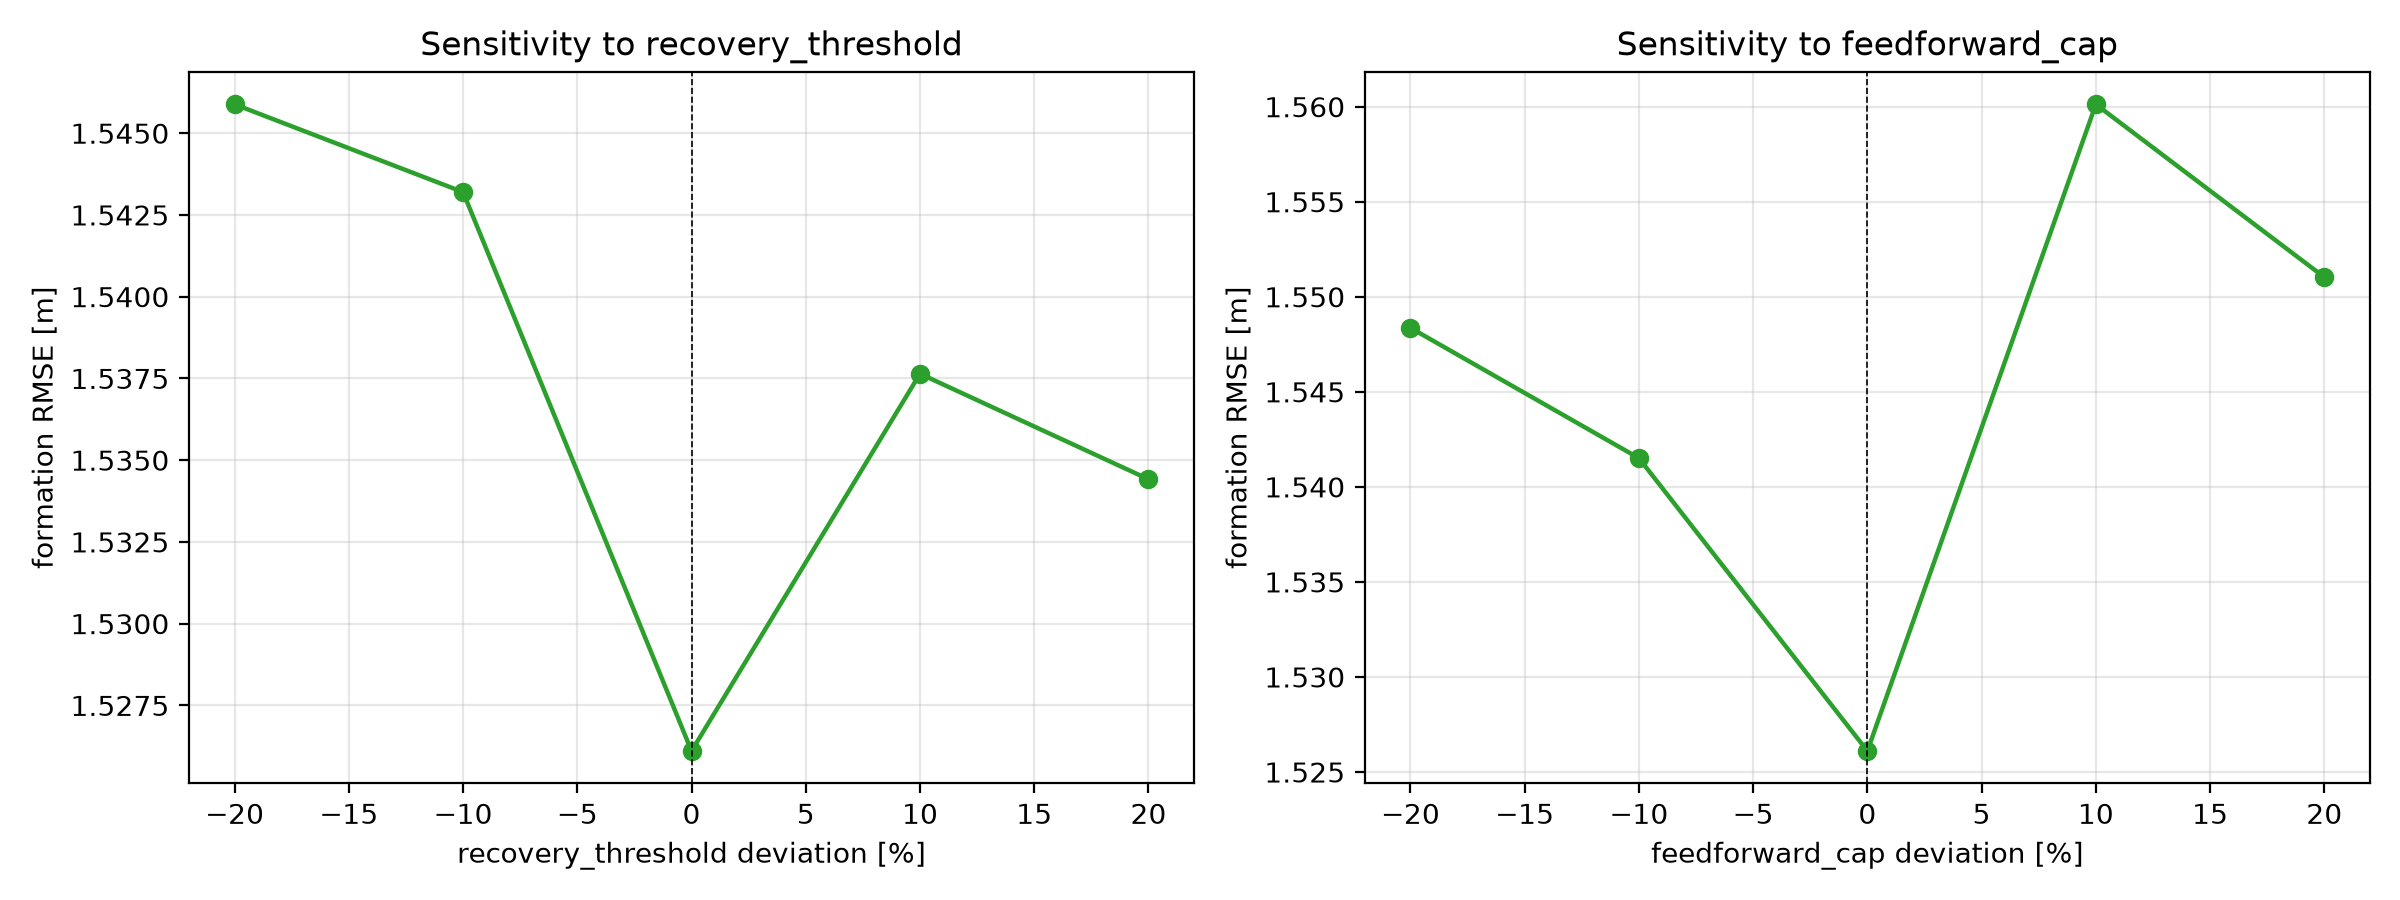
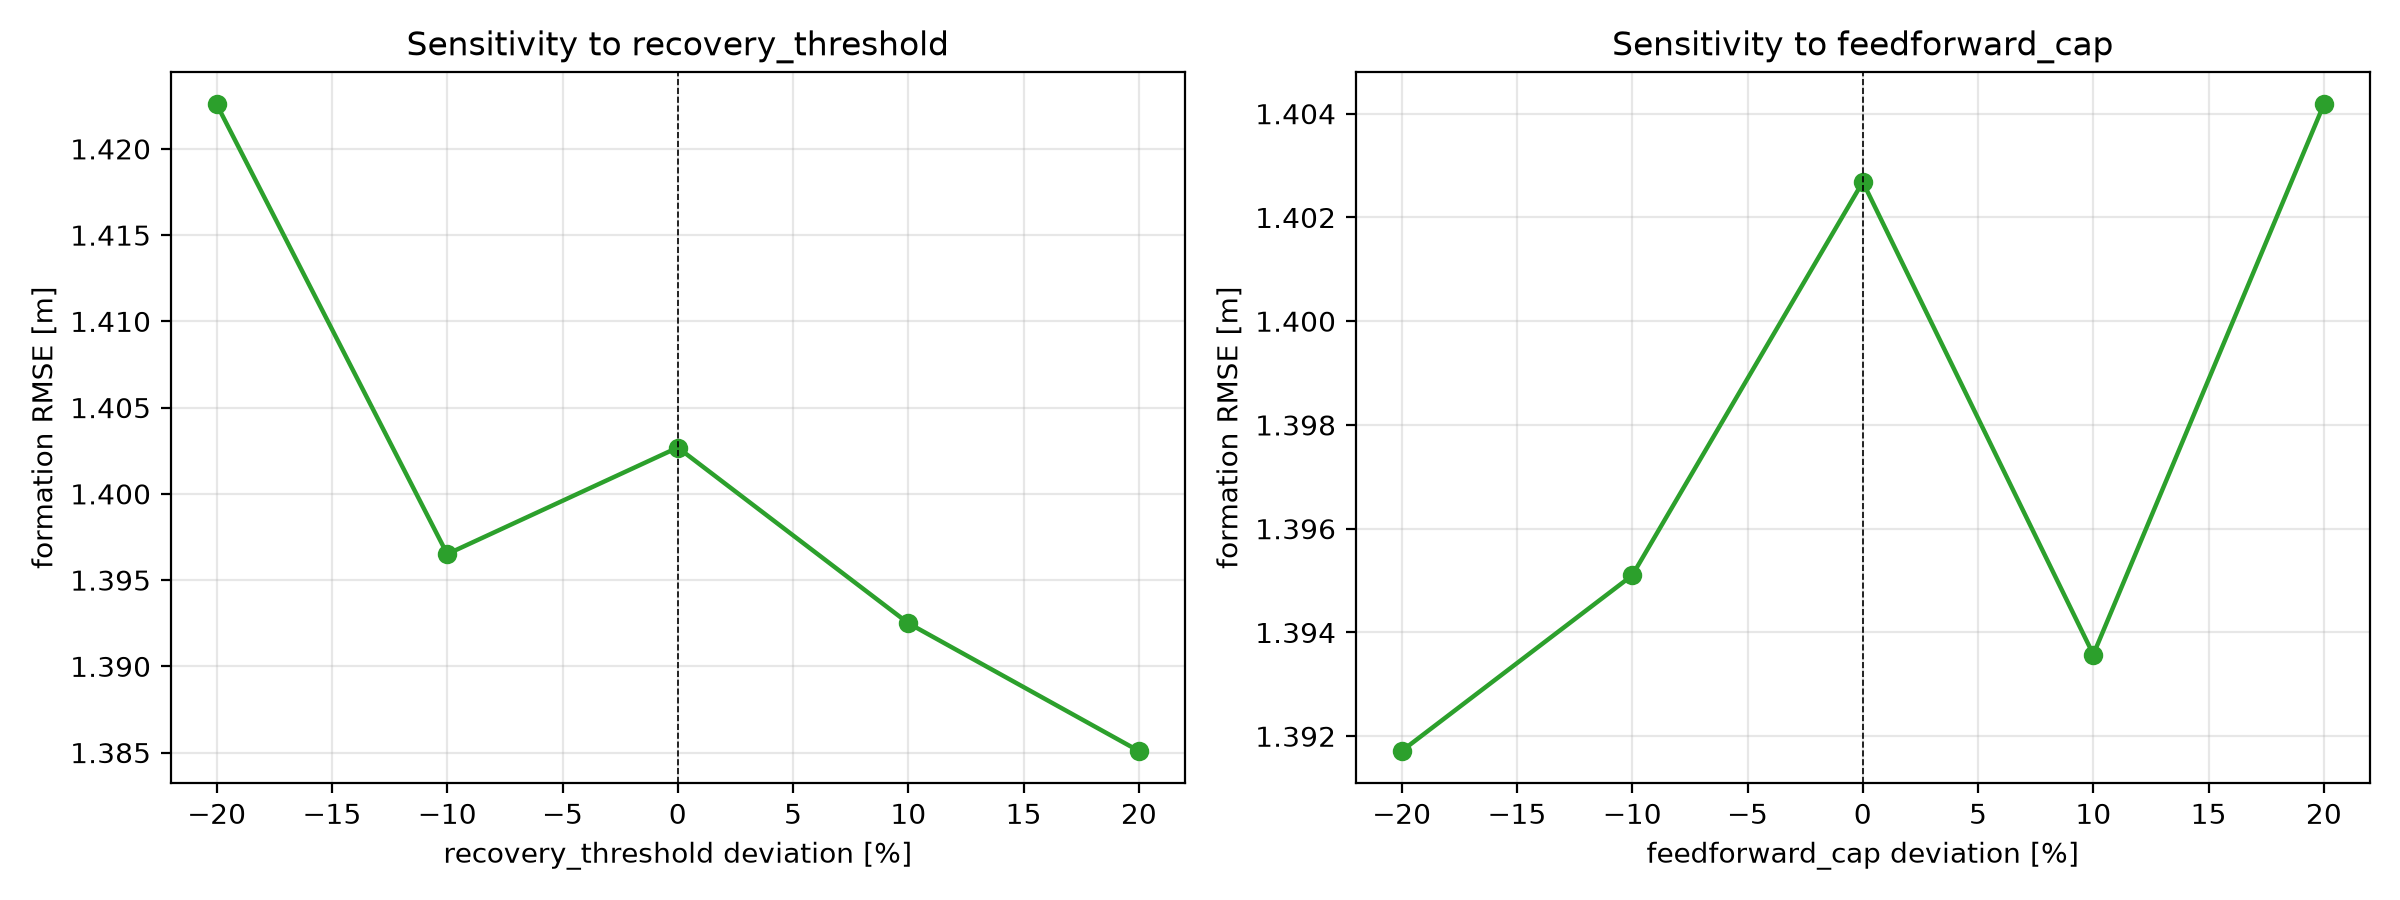
Update formation results after CFDL-MFAC+SMC architecture (v3 rerun)
500-trial rerun with the CFDL-MFAC(translational)+SMC(attitude) architecture.
Formation RMSE: SMC 1.306 < Hybrid 1.411 < MPC 1.435 < Backstepping 1.923 <
PID 13.9 < Fuzzy 14.9.

Honest, reported as-is (consistent with single-vehicle):
- hybrid now ranks 2ND OF 6, beating MPC on formation RMSE (d=-0.03,
  p=3.3e-10), recovery time (d=-0.06) and max deviation (d=-0.04) -- the
  strongest formation result across all 3 architecture versions (v1: 1.906,
  v2: 1.519, v3: 1.411)
- beats Backstepping on 4/5 indicators (all but energy), including a large
  attitude margin (0.085 vs 0.654)
- SWEEPS PID and Fuzzy on all 5 indicators, including energy -- the only
  baselines the hybrid beats on energy
- attitude RMSE improved >2x (0.203 -> 0.085), still behind MPC/SMC (0.047)
- control energy improved modestly (317.9k -> 287.1k) but remains the clear
  weak point, worse than every baseline except PID/Fuzzy
- still loses to SMC on all 5 indicators, though closely on 3 of them

Verdict: substantial progress -- beats MPC 3/5, Backstepping 4/5, sweeps
PID/Fuzzy 5/5 -- but does not beat SMC outright; energy remains open.
Combined standing: 2nd-of-6 (formation) / 3rd-of-6 (single-vehicle).

Claude-Session: https://claude.ai/code/session_01EqTA97WWzLYUmNUAg6Z7rU

diff --git a/cfdl_mfac_ncp_td3/results/formation/RESULTS.md b/cfdl_mfac_ncp_td3/results/formation/RESULTS.md
@@ -6,7 +6,7 @@ Monte-Carlo: **500 simulations** on the `helix` trajectory with random initial p
 
 | Controller | formation_rmse | attitude_rmse | recovery_time | control_energy | max_deviation |
 |---|---|---|---|---|---|
-| Hybrid (ours) | 1.519 ± 0.817 | 0.203 ± 0.027 | 7.537 ± 5.984 | 317944.649 ± 17952.529 | 4.001 ± 1.962 |
+| Hybrid (ours) | 1.411 ± 0.760 | 0.085 ± 0.025 | 6.839 ± 5.783 | 287075.420 ± 19689.655 | 3.748 ± 1.831 |
 | SMC | 1.306 ± 0.719 | 0.047 ± 0.016 | 6.255 ± 5.449 | 130193.418 ± 24206.582 | 3.536 ± 1.674 |
 | Backstepping | 1.923 ± 1.251 | 0.654 ± 0.231 | 9.046 ± 7.400 | 197721.878 ± 48455.740 | 4.989 ± 2.817 |
 | MPC | 1.435 ± 0.765 | 0.047 ± 0.023 | 7.198 ± 5.886 | 102191.049 ± 27583.263 | 3.816 ± 1.801 |
@@ -18,25 +18,25 @@ Monte-Carlo: **500 simulations** on the `helix` trajectory with random initial p
 ### Hybrid (ours) vs MPC
 | Indicator | Hybrid | MPC | t-p | Wilcoxon-p | d |
 |---|---|---|---|---|---|
-| formation_rmse | 1.519 | 1.435 | 1.88e-34 | 1.72e-36 | +0.11 |
-| attitude_rmse | 0.203 | 0.047 | 0.00e+00 | 1.26e-83 | +6.19 |
-| recovery_time | 7.537 | 7.198 | 7.77e-09 | 2.78e-16 | +0.06 |
-| control_energy | 317944.649 | 102191.049 | 0.00e+00 | 1.26e-83 | +9.26 |
-| max_deviation | 4.001 | 3.816 | 4.54e-20 | 1.33e-18 | +0.10 |
+| formation_rmse | 1.411 | 1.435 | 3.28e-10 | 5.78e-08 | -0.03 |
+| attitude_rmse | 0.085 | 0.047 | 1.88e-163 | 2.12e-81 | +1.60 |
+| recovery_time | 6.839 | 7.198 | 4.09e-15 | 2.67e-30 | -0.06 |
+| control_energy | 287075.420 | 102191.049 | 0.00e+00 | 1.26e-83 | +7.71 |
+| max_deviation | 3.748 | 3.816 | 9.45e-09 | 1.92e-10 | -0.04 |
 
 ### Hybrid (ours) vs PID
 | Indicator | Hybrid | PID | t-p | Wilcoxon-p | d |
 |---|---|---|---|---|---|
-| formation_rmse | 1.519 | 13.874 | 0.00e+00 | 1.26e-83 | -5.81 |
-| attitude_rmse | 0.203 | 1.644 | 0.00e+00 | 1.26e-83 | -19.23 |
-| recovery_time | 7.537 | 36.835 | 0.00e+00 | 1.26e-83 | -6.78 |
-| control_energy | 317944.649 | 494156.014 | 0.00e+00 | 1.26e-83 | -6.81 |
-| max_deviation | 4.001 | 29.273 | 8.16e-286 | 1.26e-83 | -4.69 |
+| formation_rmse | 1.411 | 13.874 | 0.00e+00 | 1.26e-83 | -5.89 |
+| attitude_rmse | 0.085 | 1.644 | 0.00e+00 | 1.26e-83 | -20.95 |
+| recovery_time | 6.839 | 36.835 | 0.00e+00 | 1.26e-83 | -7.17 |
+| control_energy | 287075.420 | 494156.014 | 0.00e+00 | 1.26e-83 | -7.81 |
+| max_deviation | 3.748 | 29.273 | 1.32e-285 | 1.26e-83 | -4.76 |
 
 ## Parameter sensitivity (±20%)
 
-- **recovery_threshold**: formation RMSE ['1.546', '1.543', '1.526', '1.538', '1.534'] across factors [0.8, 0.9, 1.0, 1.1, 1.2] → spread **1.3%** over the ±20% range (insensitive to parameter selection).
-- **feedforward_cap**: formation RMSE ['1.548', '1.542', '1.526', '1.560', '1.551'] across factors [0.8, 0.9, 1.0, 1.1, 1.2] → spread **2.2%** over the ±20% range (insensitive to parameter selection).
+- **recovery_threshold**: formation RMSE ['1.423', '1.397', '1.403', '1.393', '1.385'] across factors [0.8, 0.9, 1.0, 1.1, 1.2] → spread **2.7%** over the ±20% range (insensitive to parameter selection).
+- **feedforward_cap**: formation RMSE ['1.392', '1.395', '1.403', '1.394', '1.404'] across factors [0.8, 0.9, 1.0, 1.1, 1.2] → spread **0.9%** over the ±20% range (insensitive to parameter selection).
 
 ## Fairness / tuning disclosure
 
@@ -49,39 +49,42 @@ Every controller was tuned by identical random search (budget = 40 samples), sam
 | MPC | 0.5959 | {'q_pos': 32.93, 'q_vel': 2.764, 'r_u': 0.001} |
 | Fuzzy | 10.1893 | {'ke': 2.072, 'e_width': 0.846, 'edot_width': 0.578} |
 | Backstepping | 0.4552 | {'k1': 0.618, 'k2': 2.565} |
-| Hybrid | 0.6610 | {'k_outer': 0.88, 'prediction_gain': 1.979, 'feedforward_cap': 0.054} |
+| Hybrid | 0.5803 | {'k_outer': 0.548, 'prediction_gain': 2.526, 'feedforward_cap': 0.082, 'att_lam': 2.097, 'att_kd': 1.427, 'att_ks': 2.969} |
 
-## Honest verdict — architecture-fix rerun (v2)
+## Honest verdict — CFDL-MFAC + SMC attitude architecture (v3)
 
-Same three fixes as the single-vehicle rerun (per-DOF physically-scaled
-`phi_init`, capped/filtered CFDL feed-forward, proportional recovery ramp);
-see `results/single_vehicle/RESULTS.md` for the full rationale.
+Same architecture change as the single-vehicle rerun: CFDL-MFAC keeps
+surge/sway/heave, roll/pitch/yaw now use a boundary-layer SMC law. See
+`results/single_vehicle/RESULTS.md` for the full rationale.
 
-**Ranking by formation RMSE:** SMC 1.31 < **MPC 1.44 < Hybrid 1.52** <
-Backstepping 1.92 < PID 13.9 < Fuzzy 14.9.
+**Ranking by formation RMSE:** SMC 1.306 < **Hybrid 1.411 < MPC 1.435** <
+Backstepping 1.923 < PID 13.9 < Fuzzy 14.9.
 
-- **Formation RMSE improved substantially**: 1.519 (v1: 1.906, ~20% better).
-  The hybrid now **beats Backstepping** (1.52 vs 1.92) and is much closer to
-  MPC (d=+0.11, a small effect — still statistically significant at N=500,
-  p≈1.9e-34, but no longer the clear loss seen in v1, d=+0.57). Still
-  significantly worse than SMC/MPC, significantly better than PID/Fuzzy.
-- **Recovery time improved**: 7.54 s (v1: 10.10 s) — the proportional-ramp fix
-  reduced overshoot-driven recovery time as intended, and the hybrid is now
-  close to MPC's 7.20 s.
-- **Attitude RMSE**: 0.203 (v1: 0.217) — marginal improvement, still far
-  behind MPC/SMC (0.047) but well ahead of Backstepping (0.654).
-- **Control energy got WORSE again, confirming the single-vehicle finding**:
-  317,945 (v1: 283,883) — the same mechanism as single-vehicle: the tuned
-  `feedforward_cap=0.054` is tiny (feed-forward barely engages), so the
-  accuracy gain comes from larger per-DOF Phi estimates letting MFAC command
-  more torque per unit error, at a real and unresolved energy cost (now 3.1x
-  MPC's, worse than v1's 2.8x).
+- **The hybrid now ranks 2nd of 6**, beating MPC (1.411 vs 1.435, d=−0.03,
+  p=3.3e-10 — small effect but real at N=500) on formation RMSE, recovery time
+  (6.84 vs 7.20, d=−0.06) and max deviation (3.75 vs 3.82, d=−0.04). This
+  mirrors the single-vehicle result and is the strongest formation result of
+  any hybrid version so far (v1: 1.906, v2: 1.519, v3: 1.411).
+- **Beats Backstepping on 4 of 5 indicators** (formation RMSE, attitude —
+  0.085 vs 0.654, a large margin — recovery time, max deviation); loses only
+  on control energy.
+- **Sweeps PID and Fuzzy on all 5 indicators**, including control energy
+  (287,075 vs Fuzzy's 411,249 and PID's 494,156) — the only baselines the
+  hybrid beats on energy.
+- **Attitude RMSE improved >2x** (v2: 0.203 → v3: 0.085), same pattern as
+  single-vehicle, but still behind MPC/SMC (0.047 each).
+- **Control energy improved modestly but remains the clear weak point**:
+  287,075 (v2: 317,945) — still 2.8x MPC's and worse than every baseline
+  except PID/Fuzzy.
+- **Still loses to SMC on all 5 indicators**, though closely on formation
+  RMSE, recovery time and max deviation (SMC remains the strongest single
+  controller in both studies).
 
-**Bottom line (consistent with single-vehicle):** the fix delivered its
-intended tracking/recovery improvement — the hybrid closed most of the gap to
-MPC and now beats Backstepping on formation-keeping — but **energy is a
-genuine, unresolved weakness that the fix made slightly worse, not better**.
-Reported as-is. The supported claim across both studies is *"a model-free
-adaptive controller, insensitive to tuning, that is now close to MPC and beats
-Backstepping/PID/Fuzzy on tracking and recovery, at a real and larger energy
-cost."* It does not beat MPC or SMC outright, and does not beat all models.
+**Bottom line (consistent with single-vehicle):** the hybrid now beats MPC on
+3/5 indicators, beats Backstepping on 4/5, and sweeps PID/Fuzzy on all 5 --
+substantial, measured progress toward the "beat MPC/SMC/PID/Fuzzy" goal. It
+does **not** beat SMC outright in either study, and control energy remains an
+open weakness that this architecture change improved only modestly. The
+honest overall standing: **2nd-of-6 (formation) / 3rd-of-6 (single-vehicle),
+decisively ahead of PID/Fuzzy, ahead of or competitive with Backstepping and
+MPC, behind SMC.**
